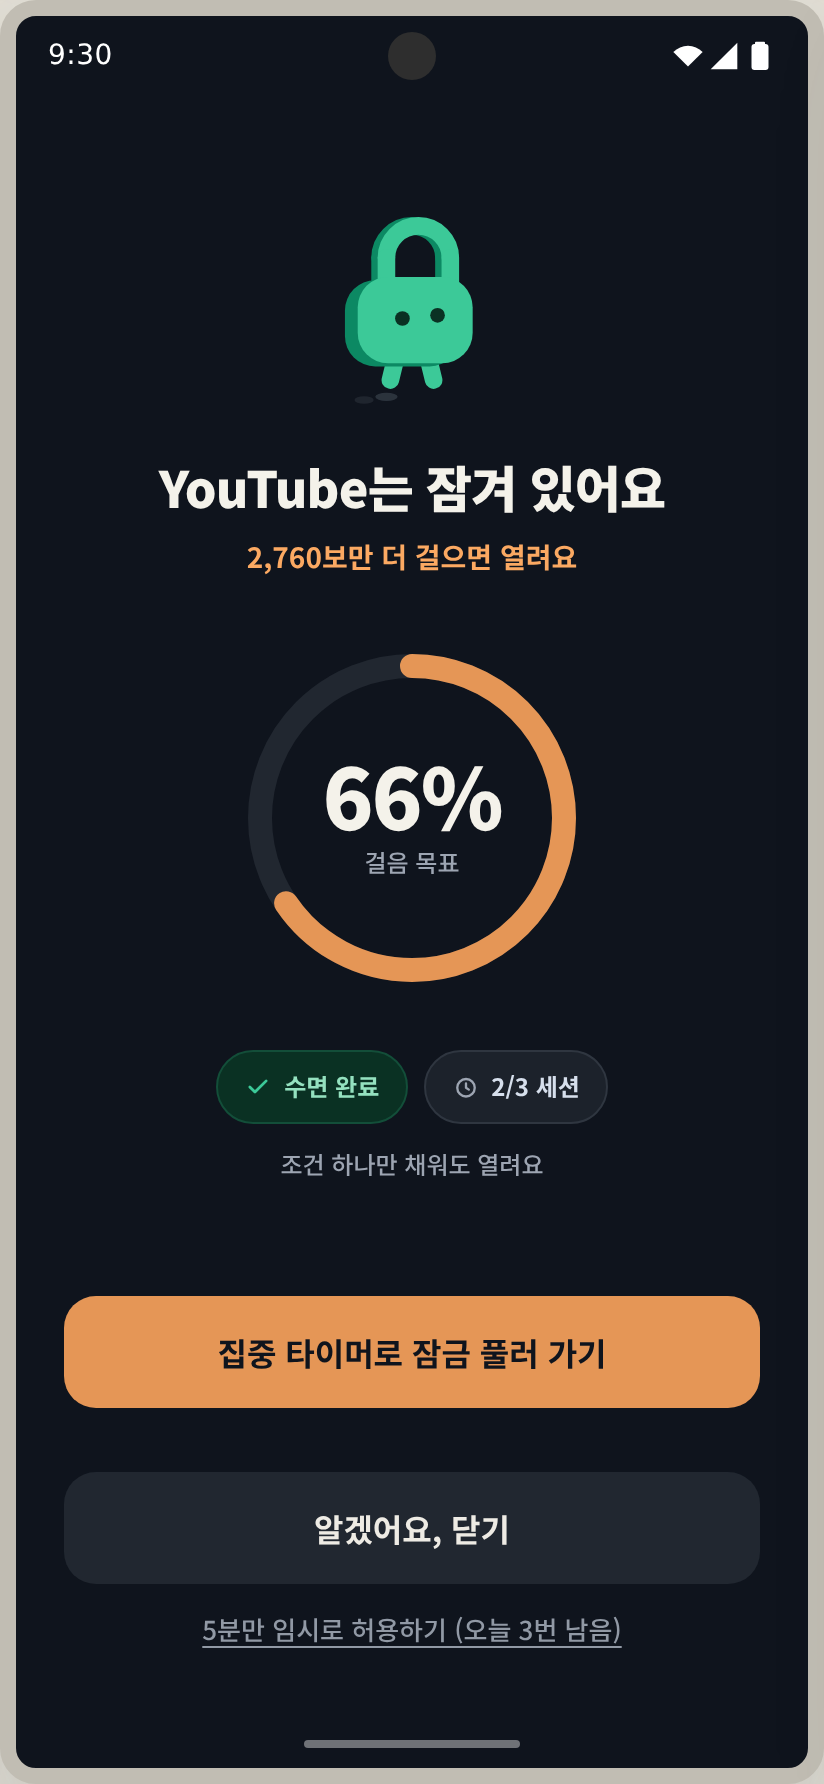
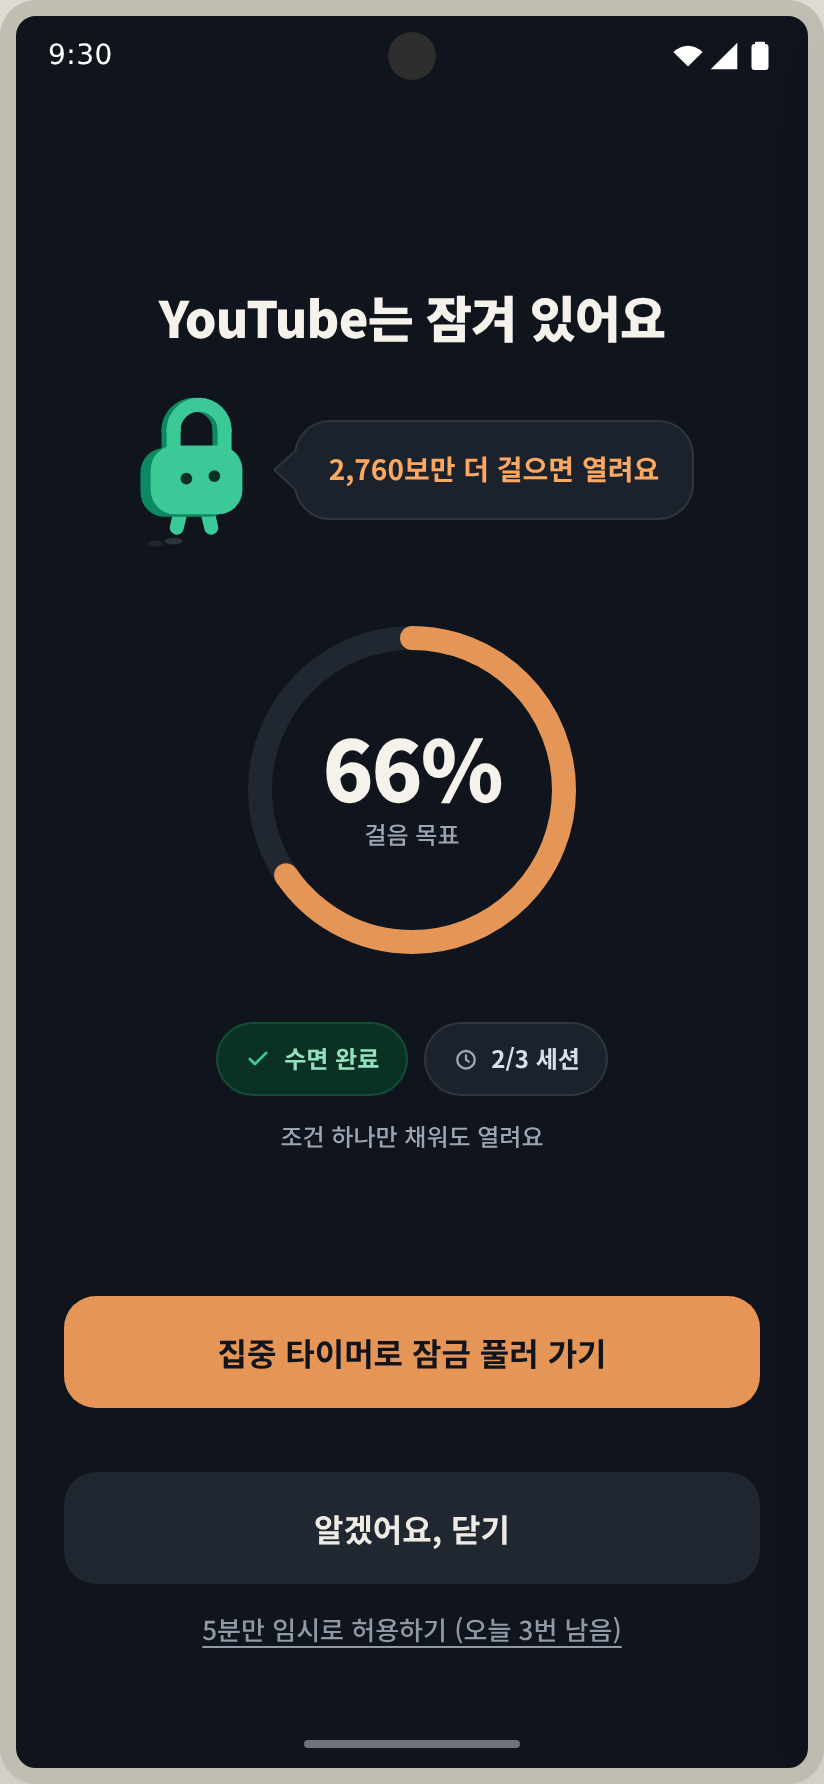
README — 스텝이가 말하는 자리 정리, 잠금·집중 화면 이미지 갱신
Claude-Session: https://claude.ai/code/session_01TfDVSB28YoT3k36WsBEoLF

Changed region(s): [[0.1517, 0.1233, 0.8192, 0.6783]]

diff --git a/README.md b/README.md
@@ -36,7 +36,19 @@
 <p align="center"><img src="docs/screens/mascot-walk.png" width="70%" alt="스텝이의 걷는 네 프레임" /></p>
 
 이름 그대로 걸어서 잠금을 푸는 앱이라, 다리가 달린 자물쇠 **스텝이**를 마스코트로 씁니다.
-첫 실행 튜토리얼에서는 스텝이가 말풍선으로 앱 쓰는 법을 알려 줍니다.
+스텝이는 앱 곳곳에서 직접 말합니다.
+
+| 자리 | 스텝이의 말 |
+| --- | --- |
+| 첫 실행 튜토리얼 | "안녕하세요, 저는 스텝이예요" — 네 장에 나눠 앱 쓰는 법을 알려 줍니다 |
+| 잠금 화면 | 옆에서 말풍선으로 "2,760보만 더 걸으면 열려요" |
+| 집중 타이머 | "집중하는 동안 잠근 앱은 제가 지킬게요" (시작 전·도는 중·멈춤마다 다름) |
+| 알림 | 머리글에 "스텝이"가 붙고, "해냈어요! 오늘은 열어 둘게요", 저녁 7~10시 "저녁 산책 같이 가요?" |
+| 빈 화면 | "지킬 앱을 골라 주세요 — 고른 앱이 열리면 제가 막아 둘게요" |
+
+말풍선(`StepiBubble`)은 **캐릭터가 바로 옆에 있는 자리에서만** 씁니다. 캐릭터 없이 말풍선만
+있으면 테두리 있는 상자가 하나 더 생길 뿐이라, 빈 화면처럼 패널 안에 캐릭터가 이미 있는
+곳은 말투만 바꿨습니다.
 런처 아이콘은 이 캐릭터를 적응형 아이콘(전경 PNG + 크림 배경 + 모노크롬 벡터)으로 넣었습니다.
 
 앱 안에서는 비트맵을 쓰지 않고 100×124 좌표계로 **다시 그려**
